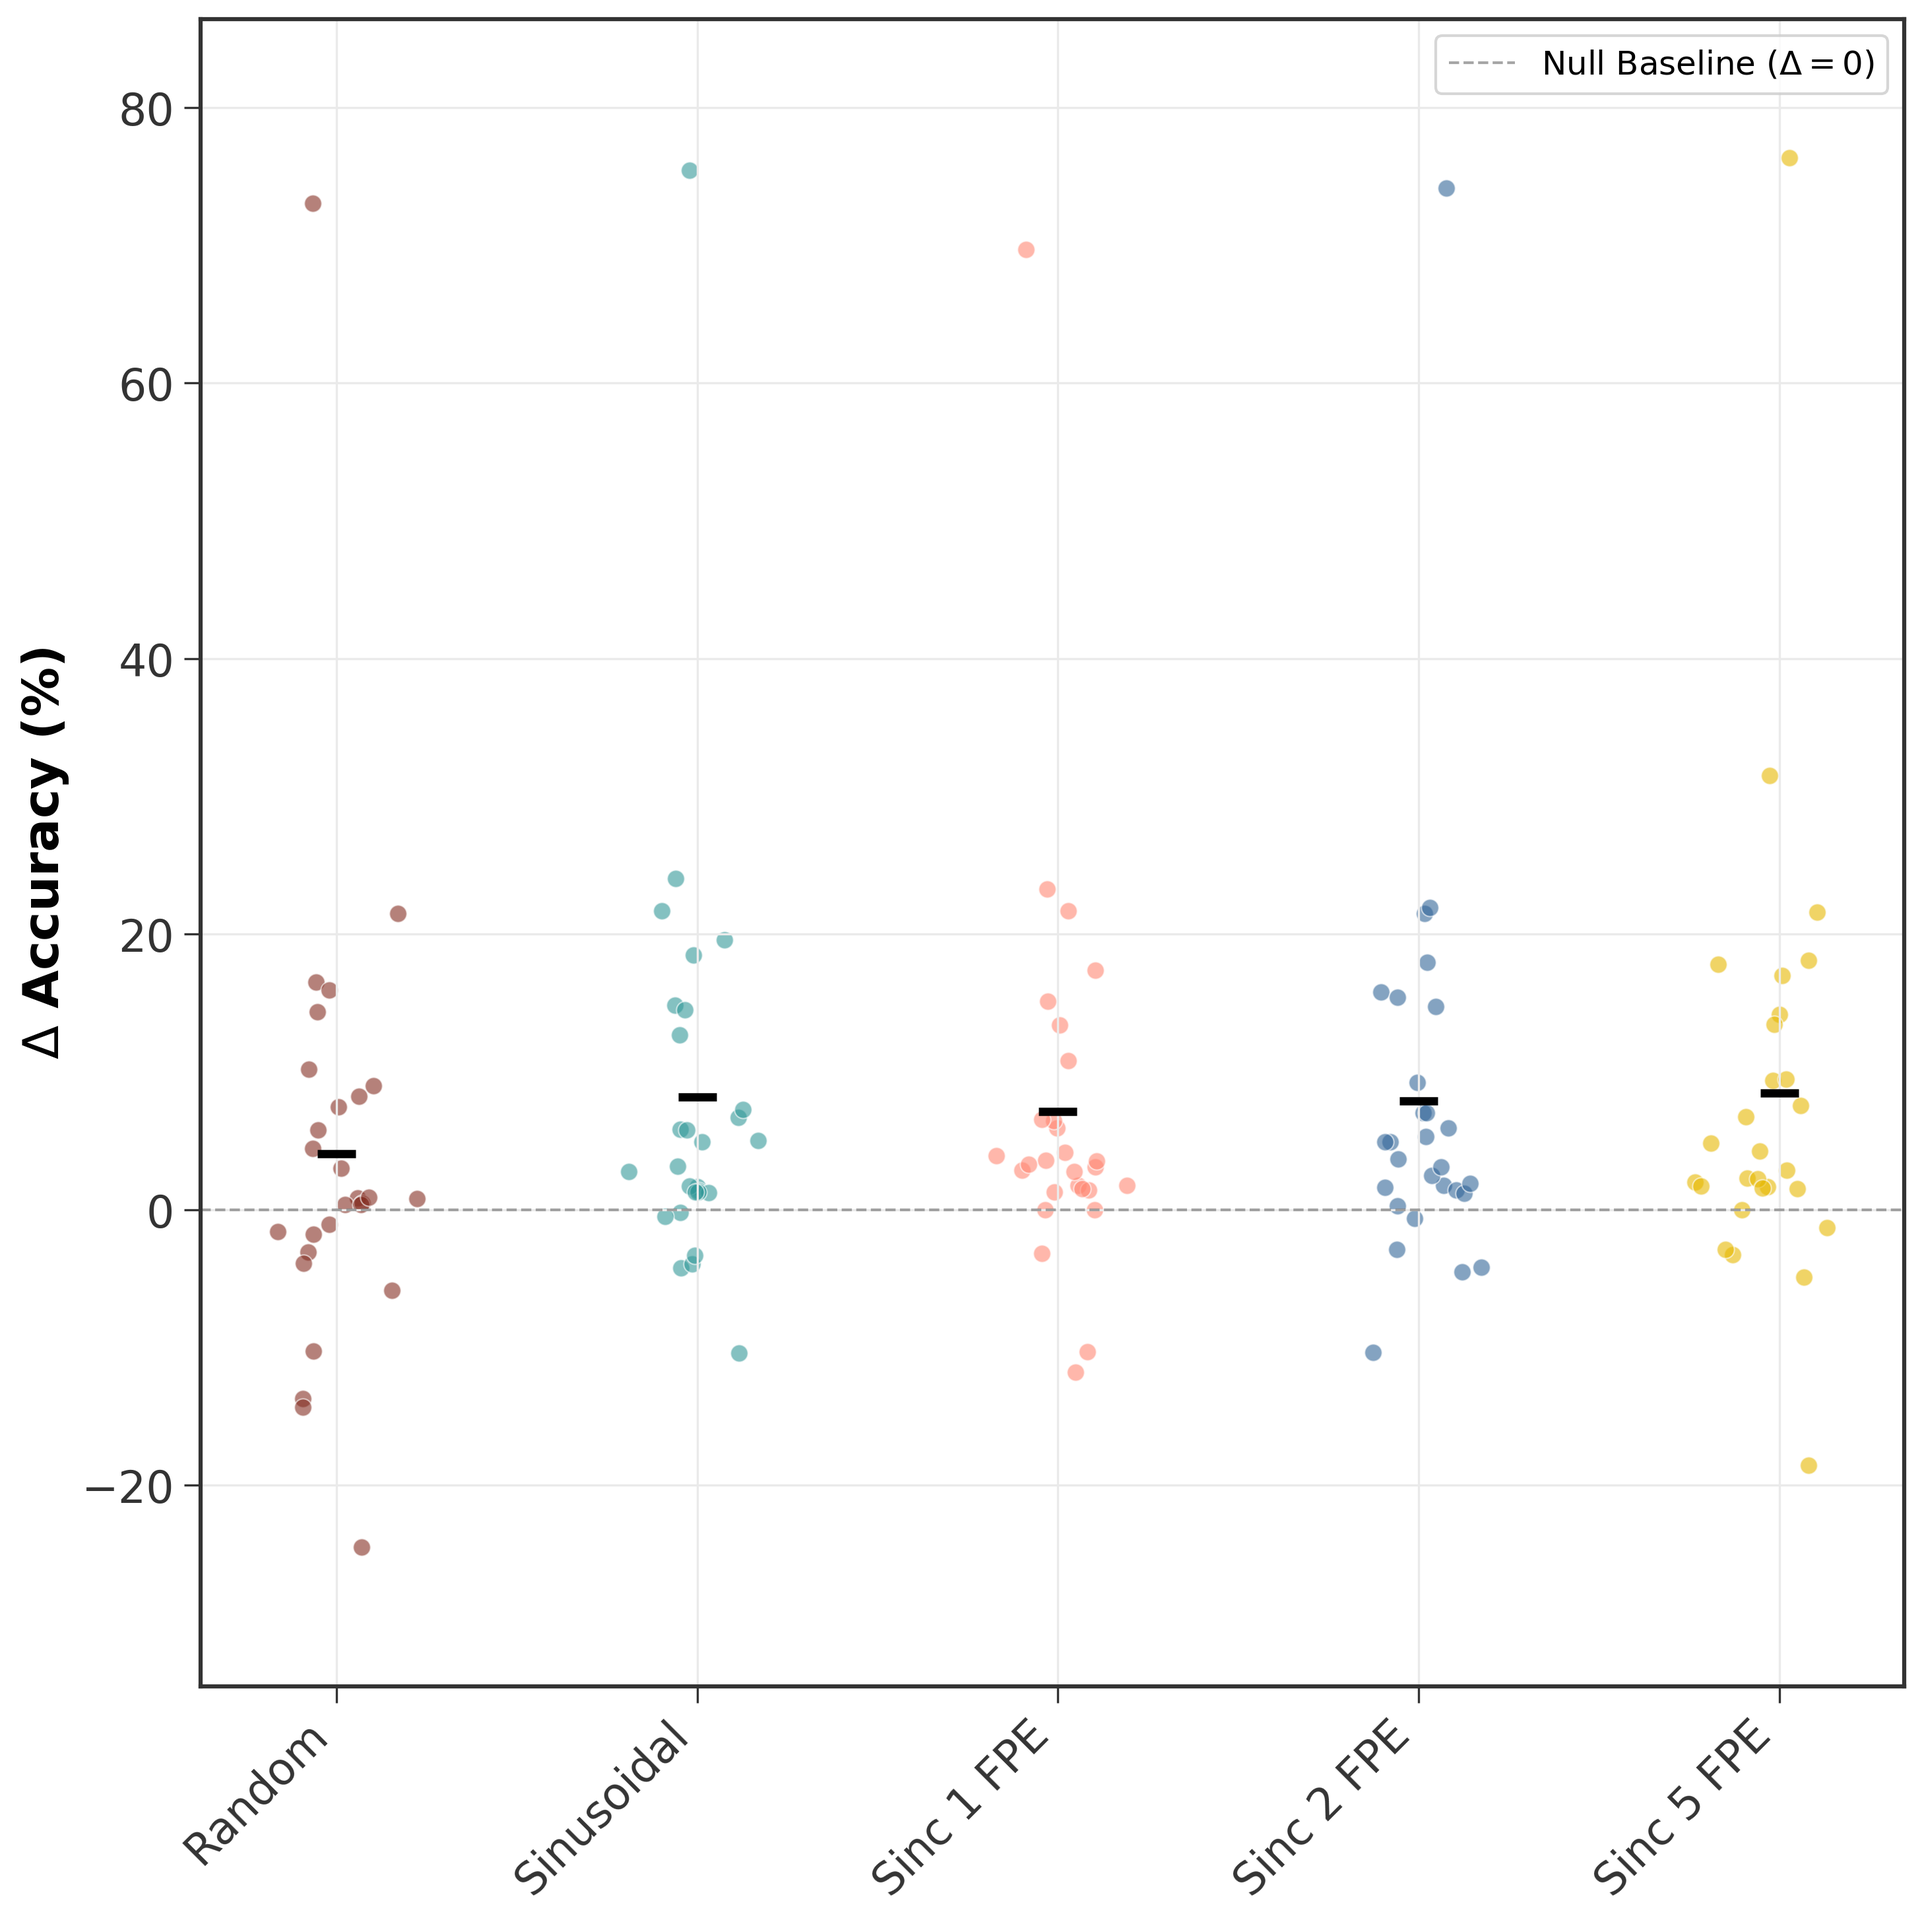
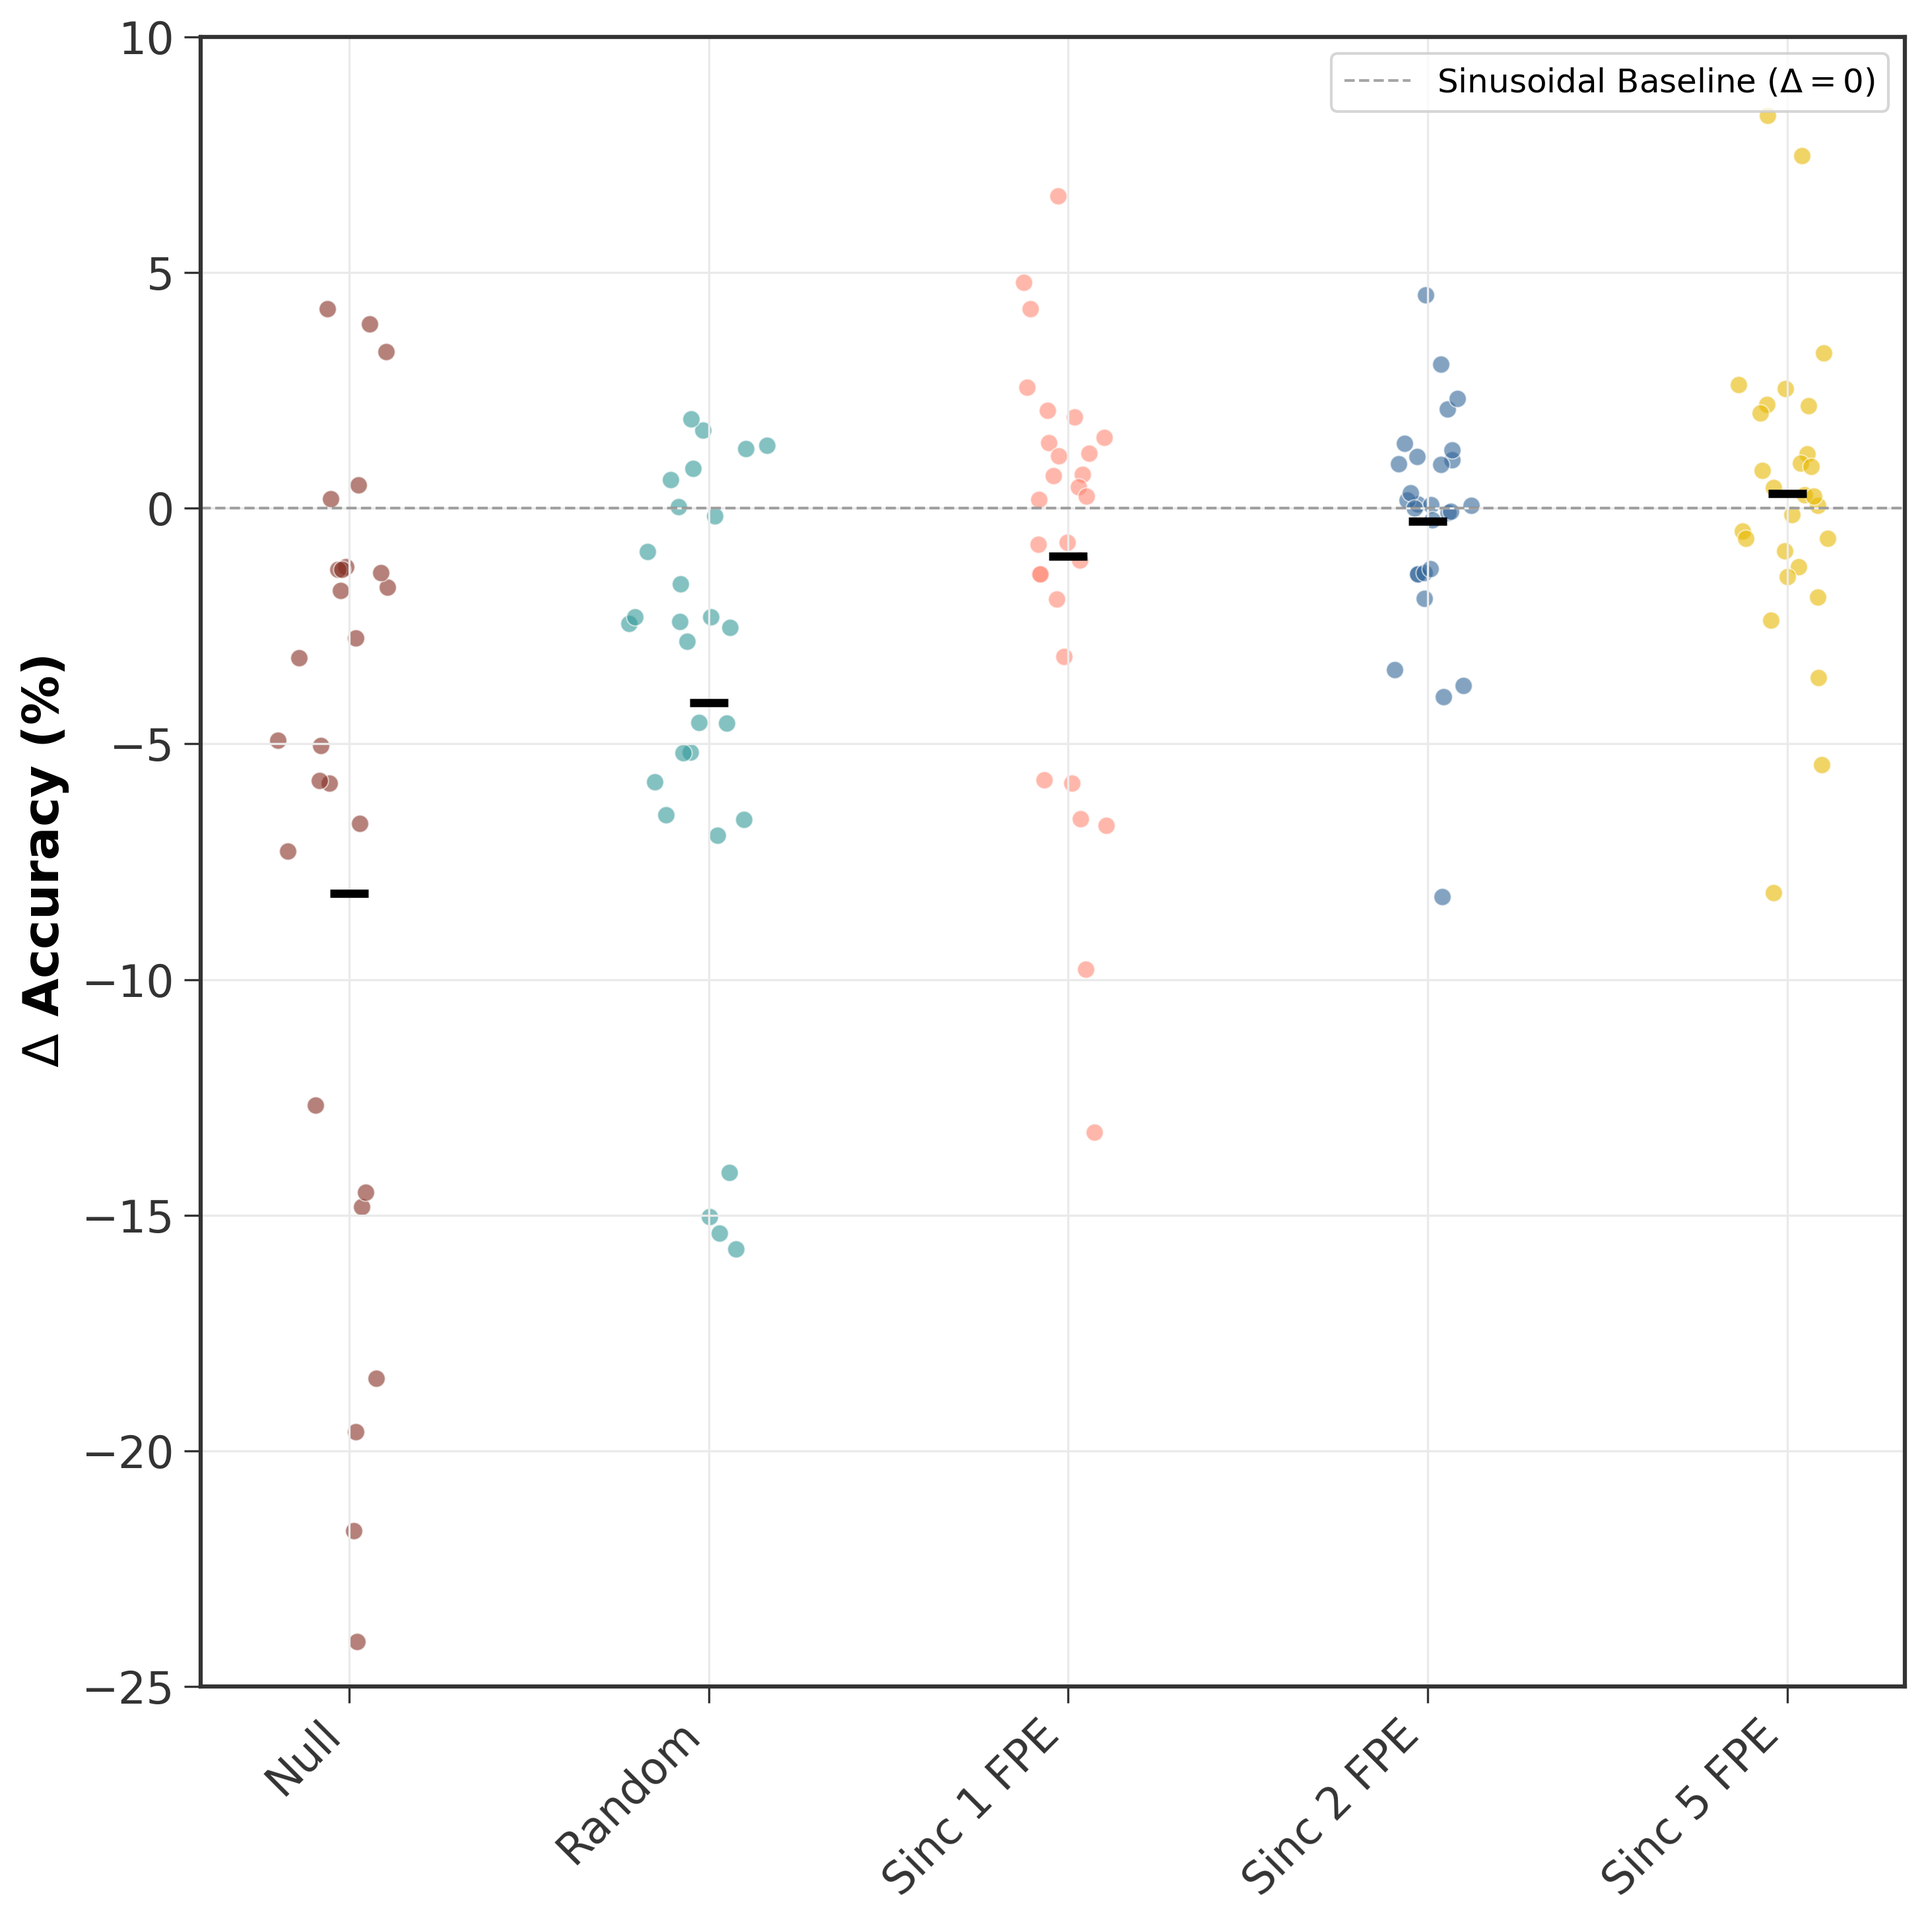
sinusoidal as baseline

diff --git a/src/experiments/visualization/paper.py b/src/experiments/visualization/paper.py
@@ -494,9 +494,9 @@ if __name__ == "__main__":
             ],
             "target_models": ("Sinc 1 FPE", "Null"),
             "baseline_conf": {
-                "Null": ["Random", "Sinusoidal", "Sinc 1 FPE", "Sinc 2 FPE", "Sinc 5 FPE"],
+                "Sinusoidal": ["Null", "Random", "Sinc 1 FPE", "Sinc 2 FPE", "Sinc 5 FPE"],
             },
-            "relative_acc_legend_label": "Null Baseline",
+            "relative_acc_legend_label": "Sinusoidal Baseline",
         },
         {
             "experiment_name": "Experiment 4 CConv",
@@ -523,9 +523,9 @@ if __name__ == "__main__":
             ],
             "target_models": ("Sinc 5 FPE", "Null"),
             "baseline_conf": {
-                "Null": ["Random", "Sinusoidal", "Sinc 1 FPE", "Sinc 2 FPE", "Sinc 5 FPE"],
+                "Sinusoidal": ["Null", "Random", "Sinc 1 FPE", "Sinc 2 FPE", "Sinc 5 FPE"],
             },
-            "relative_acc_legend_label": "Null Baseline",
+            "relative_acc_legend_label": "Sinusoidal Baseline",
         },
     ]
 
